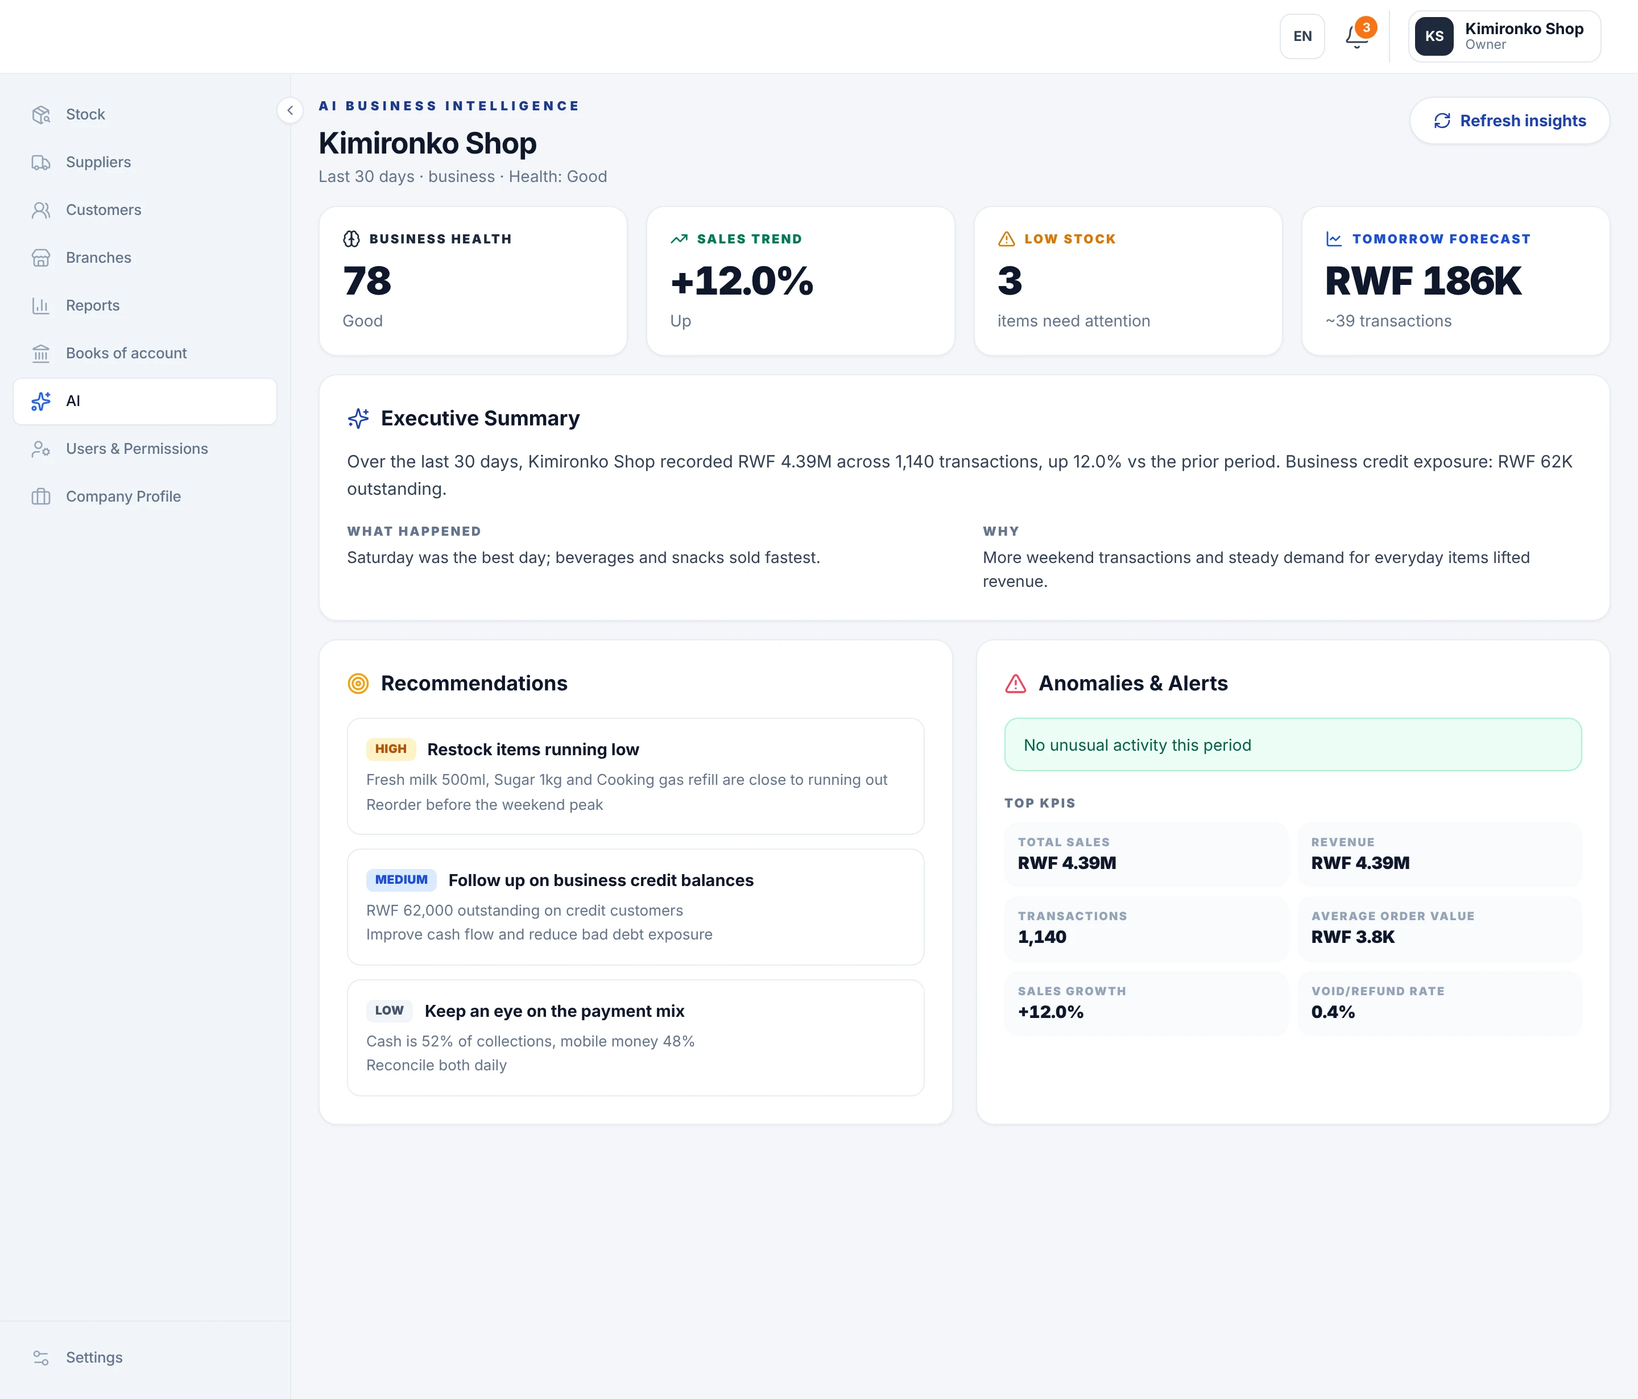
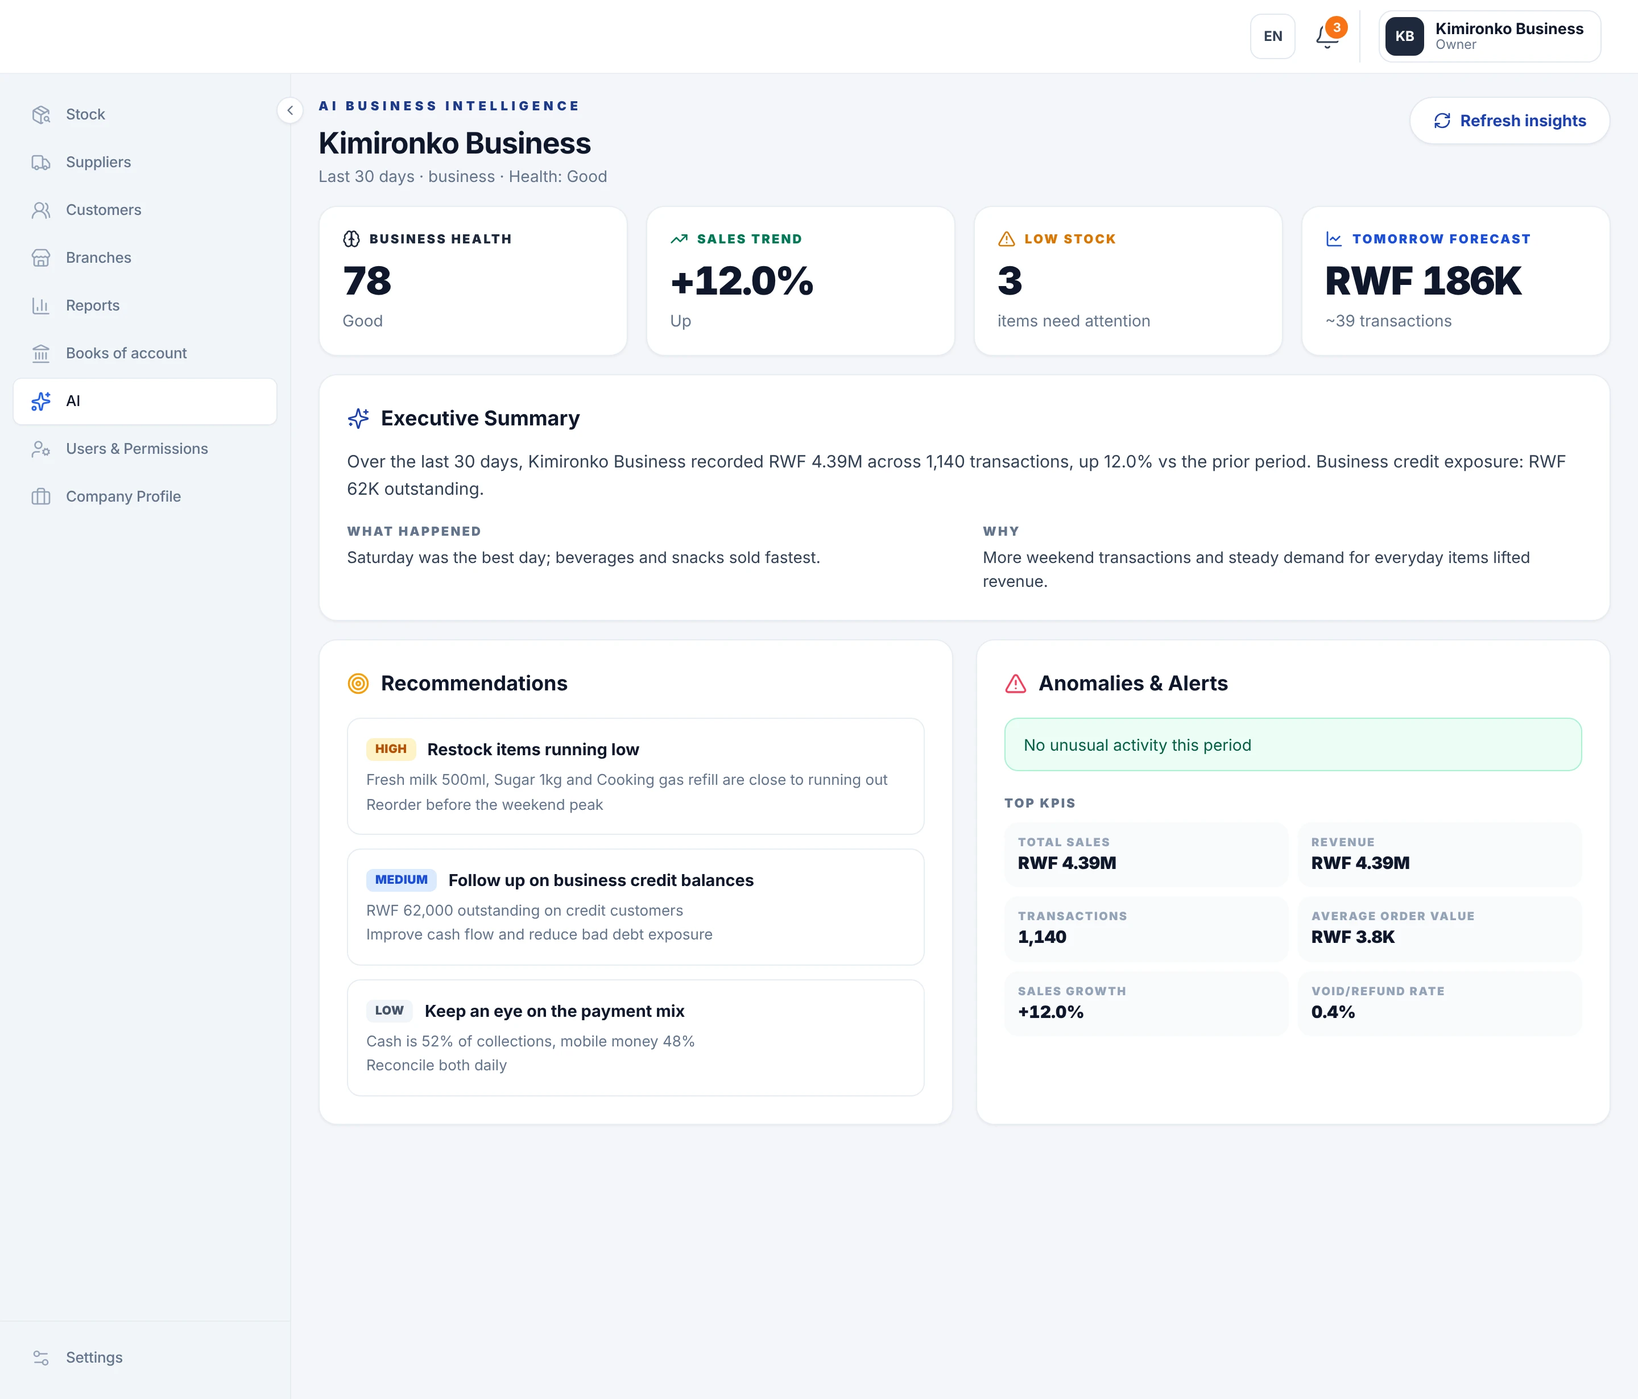
Say "business" instead of "shop" in the page, dialog and demo screens
Navigation ("Your business"), section headings and copy, pricing, the
closing call to action, the demo dialog (title, lead, "Business name and
location" field and the composed email) now say "business". The demo
business in the app screens is renamed "Kimironko Business". The #shop
anchor and internal class names stay, so existing links keep working.

diff --git a/index.html b/index.html
@@ -144,7 +144,7 @@
     <nav class="nav__links" aria-label="Primary">
       <a href="#features" data-nav-link="features">Features</a>
       <a href="#how-it-works" data-nav-link="how-it-works">How it works</a>
-      <a href="#shop" data-nav-link="shop">Your shop</a>
+      <a href="#shop" data-nav-link="shop">Your business</a>
       <a href="#pricing" data-nav-link="pricing">Pricing</a>
       <span class="nav__indicator" aria-hidden="true"></span>
     </nav>
@@ -163,7 +163,7 @@
   <nav class="menu__links" aria-label="Mobile">
     <a href="#features"><span>01</span>Features</a>
     <a href="#how-it-works"><span>02</span>How it works</a>
-    <a href="#shop"><span>03</span>Your shop</a>
+    <a href="#shop"><span>03</span>Your business</a>
     <a href="#pricing"><span>04</span>Pricing</a>
   </nav>
   <div class="menu__actions">
@@ -294,7 +294,7 @@
         <div class="intro">
           <p class="eyebrow" data-rv>How it works</p>
           <h2 class="h2 h2--xl" data-split>Your entire business. <em>One connected system.</em></h2>
-          <p class="lead" data-rv>Products, stock, sales, customer credit and reports, together in one place. Here's how a shop runs on KONTABURE, from the first product you add to the report you read at closing.</p>
+          <p class="lead" data-rv>Products, stock, sales, customer credit and reports, together in one place. Here's how a business runs on KONTABURE, from the first product you add to the report you read at closing.</p>
         </div>
       </div>
 
@@ -302,7 +302,7 @@
       <article class="chapter" id="step-setup" data-step="0" data-shot="products">
         <div class="chapter__text">
           <p class="chapter__num" data-rv><span>01</span>First</p>
-          <h3 class="chapter__title" data-split>Set up your shop</h3>
+          <h3 class="chapter__title" data-split>Set up your business</h3>
           <p class="chapter__lead" data-rv>Add your products, organise your categories and record your starting stock.</p>
           <ul class="ticks" data-rv>
             <li>Start from ready-made product templates</li>
@@ -335,7 +335,7 @@
         <div class="chapter__text">
           <p class="chapter__num" data-rv><span>03</span>Third</p>
           <h3 class="chapter__title" data-split>Manage customer credit</h3>
-          <p class="chapter__lead" data-rv>Sell on credit to your regulars, see who owes the shop, and record repayments as they come in.</p>
+          <p class="chapter__lead" data-rv>Sell on credit to your regulars, see who owes the business, and record repayments as they come in.</p>
           <ul class="ticks" data-rv>
             <li>Know exactly who owes you, and how much</li>
             <li>Record repayments and see balances update</li>
@@ -343,7 +343,7 @@
           </ul>
         </div>
         <figure class="frame chapter__frame" data-rv="clip">
-          <div class="shot" data-crop="cr-table" data-crop-sm="cr-sm"><img src="assets/screens/credit.webp" alt="Customers who owe the shop, with balances and how much of their group's credit limit is used (sample data)." width="1440" height="900" loading="lazy" decoding="async"></div>
+          <div class="shot" data-crop="cr-table" data-crop-sm="cr-sm"><img src="assets/screens/credit.webp" alt="Customers who owe the business, with balances and how much of their group's credit limit is used (sample data)." width="1440" height="900" loading="lazy" decoding="async"></div>
         </figure>
       </article>
 
@@ -435,7 +435,7 @@
         </div>
       </div>
     </div>
-    <p class="fineprint" data-rv>Interactive illustration using the demo shop's sample figures.</p>
+    <p class="fineprint" data-rv>Interactive illustration using the demo business's sample figures.</p>
   </div>
 </section>
 
@@ -444,7 +444,7 @@
   <div class="day__stage">
     <div class="day__track">
       <div class="day__panel day__intro">
-        <p class="eyebrow" data-rv>A day in your shop</p>
+        <p class="eyebrow" data-rv>A day in your business</p>
         <h2 class="h2 h2--xl" id="day-title" data-split>From opening to closing, <em>one place to look.</em></h2>
         <p class="lead" data-rv>An example day at a business running on KONTABURE.</p>
         <p class="day__hint" aria-hidden="true"><span></span>Keep scrolling</p>
@@ -518,8 +518,8 @@
   <div class="container">
     <div class="features__head">
       <p class="eyebrow" data-rv>Built for businesses</p>
-      <h2 class="h2 h2--xl" id="features-title" data-split>Everything your shop needs. <em>Nothing it doesn't.</em></h2>
-      <p class="lead" data-rv>The tools a neighborhood shop uses every day, without the ones it doesn't.</p>
+      <h2 class="h2 h2--xl" id="features-title" data-split>Everything your business needs. <em>Nothing it doesn't.</em></h2>
+      <p class="lead" data-rv>The tools a neighborhood business uses every day, without the ones it doesn't.</p>
     </div>
 
     <ol class="ledger">
@@ -585,7 +585,7 @@
   <div class="container">
     <div class="shop__head">
       <p class="eyebrow" data-rv>Designed for local businesses</p>
-      <h2 class="h2 h2--xl" id="shop-title" data-split>Made for the way <em>your shop</em> already works.</h2>
+      <h2 class="h2 h2--xl" id="shop-title" data-split>Made for the way <em>your business</em> already works.</h2>
     </div>
 
     <ul class="manifesto">
@@ -607,7 +607,7 @@
       <li data-rv>
         <span class="manifesto__icon" aria-hidden="true"><svg><use href="#i-spark"/></svg></span>
         <p class="manifesto__big">Up and selling the same day.</p>
-        <p class="manifesto__small">No training course needed. Four steps and your shop is running on KONTABURE.</p>
+        <p class="manifesto__small">No training course needed. Four steps and your business is running on KONTABURE.</p>
       </li>
     </ul>
 
@@ -628,7 +628,7 @@
   <div class="container pricing__grid">
     <div class="pricing__intro">
       <p class="eyebrow" data-rv>Pricing</p>
-      <h2 class="h2 h2--xl" id="pricing-title" data-split>Fair pricing <em>for your shop.</em></h2>
+      <h2 class="h2 h2--xl" id="pricing-title" data-split>Fair pricing <em>for your business.</em></h2>
       <p class="lead" data-rv>One simple price for your business, with savings when you pay for a quarter or a year.</p>
       <p class="trial" data-rv><svg aria-hidden="true"><use href="#i-check"/></svg><span>Every plan starts with a <span data-trial-days>30</span>-day free trial</span></p>
 
@@ -665,7 +665,7 @@
   <div class="container finale__inner">
     <p class="eyebrow eyebrow--accent" data-rv>Get started</p>
     <h2 class="finale__title" id="finale-title" data-split>Put your business on KONTABURE <em>today.</em></h2>
-    <p class="lead" data-rv>Set up your shop in minutes, or book a demo and we'll walk you through it.</p>
+    <p class="lead" data-rv>Set up your business in minutes, or book a demo and we'll walk you through it.</p>
     <div class="finale__cta" data-rv>
       <a class="btn btn--primary btn--lg" href="https://kontabure.africa/login"><span>Get started</span><svg class="btn__icon" aria-hidden="true"><use href="#i-arrow"/></svg></a>
       <button class="btn btn--ghost btn--lg" type="button" data-demo="demo"><svg class="btn__icon" aria-hidden="true"><use href="#i-cal"/></svg><span>Request a demo</span></button>
@@ -680,7 +680,7 @@
       </div>
       <nav class="footer__col" aria-label="Product">
         <p>Product</p>
-        <a href="#features">Features</a><a href="#how-it-works">How it works</a><a href="#shop">Your shop</a><a href="#pricing">Pricing</a>
+        <a href="#features">Features</a><a href="#how-it-works">How it works</a><a href="#shop">Your business</a><a href="#pricing">Pricing</a>
       </nav>
       <nav class="footer__col" aria-label="Account">
         <p>Account</p>
@@ -707,12 +707,12 @@
   <form class="dialog__card" method="dialog" novalidate>
     <button class="dialog__close" type="submit" value="cancel" formnovalidate aria-label="Close"><svg aria-hidden="true"><use href="#i-x"/></svg></button>
     <p class="eyebrow" data-dialog-eyebrow>Book a demo</p>
-    <h2 class="dialog__title" id="dialog-title" data-dialog-title>See KONTABURE in your shop</h2>
-    <p class="dialog__lead" data-dialog-lead>Tell us a little about your shop and we'll walk you through it.</p>
+    <h2 class="dialog__title" id="dialog-title" data-dialog-title>See KONTABURE in your business</h2>
+    <p class="dialog__lead" data-dialog-lead>Tell us a little about your business and we'll walk you through it.</p>
     <div class="dialog__fields">
       <label class="field"><span>Your name</span><input name="name" autocomplete="name" required></label>
       <label class="field"><span>Phone number</span><input name="phone" type="tel" autocomplete="tel" inputmode="tel" required></label>
-      <label class="field field--wide"><span>Shop name and location</span><input name="shop" autocomplete="organization" placeholder="e.g. Kimironko shop"></label>
+      <label class="field field--wide"><span>Business name and location</span><input name="business" autocomplete="organization" placeholder="e.g. Kimironko Business"></label>
       <fieldset class="field field--wide">
         <legend>Preferred language</legend>
         <div class="seg seg--light">

diff --git a/tools/screens/app/screens.html b/tools/screens/app/screens.html
@@ -12,7 +12,7 @@
     stock     Stock › Stock in              (approximation: no reference yet)
     products  Stock › Add products          (approximation: no reference yet)
     credit    Customers                     (approximation: no reference yet)
-  All figures are SAMPLE DATA for the demo shop. No customer data is used.
+  All figures are SAMPLE DATA for the demo business. No customer data is used.
   Build: node tools/screens/app/build.cjs
 -->
 <html lang="en">
@@ -64,7 +64,7 @@ const ICON = {
 };
 const svg = (paths, cls = 'h-4 w-4', sw = 1.75) => `<svg xmlns="http://www.w3.org/2000/svg" viewBox="0 0 24 24" fill="none" stroke="currentColor" stroke-width="${sw}" stroke-linecap="round" stroke-linejoin="round" class="${cls}" aria-hidden="true">${paths}</svg>`;
 const fmt = (n) => n.toLocaleString('en-US');
-const SHOP = 'Kimironko Shop';
+const SHOP = 'Kimironko Business';
 
 /* ------------------------------------------------------------ app shell (real classes) */
 const NAV = ['Stock', 'Suppliers', 'Customers', 'Branches', 'Reports', 'Books of account', 'AI', 'Users & Permissions', 'Company Profile'];
@@ -82,7 +82,7 @@ function shell(key, active, main, h = 900) {
         <div class="flex shrink-0 items-center gap-2">
           <button type="button" class="relative flex h-10 w-10 items-center justify-center rounded-app-md border border-slate-200 bg-white text-slate-700"><span class="text-xs font-bold leading-none">EN</span></button>
           <button type="button" class="relative rounded-app-md p-2 text-slate-700">${svg(ICON.bell, 'h-6 w-6', 1.5)}<span class="absolute right-0.5 top-0.5 flex h-5 min-w-[20px] items-center justify-center rounded-full bg-[var(--accent-urgent)] px-1 text-[11px] font-bold leading-none text-white shadow-sm ring-2 ring-white">3</span></button>
-          <div class="flex items-center gap-2.5 border-l pl-4 border-[var(--border)]"><button type="button" class="module-header-profile"><span class="module-header-avatar">KS</span><span class="module-header-profile-copy"><span class="module-header-profile-name">${SHOP}</span><span class="module-header-profile-role">Owner</span></span></button></div>
+          <div class="flex items-center gap-2.5 border-l pl-4 border-[var(--border)]"><button type="button" class="module-header-profile"><span class="module-header-avatar">KB</span><span class="module-header-profile-copy"><span class="module-header-profile-name">${SHOP}</span><span class="module-header-profile-role">Owner</span></span></button></div>
         </div>
       </div>
     </header>
@@ -292,7 +292,7 @@ const credit = shell('credit', 'Customers', `
   </div>
   ${tabs([['wallet', 'Owing'], ['users', 'All customers'], ['layers', 'Groups'], ['repay', 'Repayments']], 0)}
   <div class="grid grid-cols-[1.6fr_1fr] gap-5">
-    ${card('Who owes the shop', 'Sorted by last activity', `<table class="w-full"><thead><tr>${th('Customer')}${th('Group')}${th('Balance (RWF)', 1)}${th('Limit used')}${th('Last activity')}</tr></thead><tbody>${owing.map(([n, g, b, l, a], i) => `<tr class="border-t border-slate-100 ${i === 0 ? 'bg-emerald-50/60' : ''}">${td(n, 0, 1)}<td class="px-3 py-2.5">${badge(g, 'slate')}</td>${td(fmt(b), 1, 1)}<td class="px-3 py-2.5"><div class="flex items-center gap-2"><div class="h-1.5 w-24 rounded-full bg-slate-100"><div class="h-1.5 rounded-full ${b / l > .6 ? 'bg-amber-500' : 'bg-primary-600'}" style="width:${b / l * 100}%"></div></div><span class="text-[10px] text-slate-400">${fmt(l / 1000)}k</span></div></td>${td(a)}</tr>`).join('')}</tbody></table>`, 'cr-table')}
+    ${card('Who owes the business', 'Sorted by last activity', `<table class="w-full"><thead><tr>${th('Customer')}${th('Group')}${th('Balance (RWF)', 1)}${th('Limit used')}${th('Last activity')}</tr></thead><tbody>${owing.map(([n, g, b, l, a], i) => `<tr class="border-t border-slate-100 ${i === 0 ? 'bg-emerald-50/60' : ''}">${td(n, 0, 1)}<td class="px-3 py-2.5">${badge(g, 'slate')}</td>${td(fmt(b), 1, 1)}<td class="px-3 py-2.5"><div class="flex items-center gap-2"><div class="h-1.5 w-24 rounded-full bg-slate-100"><div class="h-1.5 rounded-full ${b / l > .6 ? 'bg-amber-500' : 'bg-primary-600'}" style="width:${b / l * 100}%"></div></div><span class="text-[10px] text-slate-400">${fmt(l / 1000)}k</span></div></td>${td(a)}</tr>`).join('')}</tbody></table>`, 'cr-table')}
     <div class="space-y-5">
       ${card('Record repayment', '', `<div class="grid grid-cols-2 gap-3"><div class="col-span-2">${label9('Customer')}<div class="mt-1 rounded-lg border border-slate-200 bg-white px-3 py-2 text-xs font-semibold text-slate-800">Uwase M. · Regulars</div></div><div>${label9('Amount (RWF)')}<div class="mt-1 rounded-lg border border-slate-200 bg-white px-3 py-2 text-xs font-semibold text-slate-800">5,000</div></div><div>${label9('Paid with')}<div class="mt-1 rounded-lg border border-slate-200 bg-white px-3 py-2 text-xs font-semibold text-slate-800">Cash</div></div></div><div class="mt-3">${total('Balance 13,500 → 8,500', 'RWF 8,500', 'emerald')}</div>`, 'cr-repay', '', badge('Saved', 'green'))}
       ${card('Customer groups', 'Credit limits', `<div class="space-y-1">${[['Regulars', 30000, 3], ['Neighbours', 20000, 2], ['Staff', 15000, 1]].map(([g, l, c]) => `<div class="flex items-center justify-between rounded-xl px-3 py-2"><div><p class="text-xs font-bold text-slate-900">${g}</p><p class="text-[10px] text-slate-400">${c} owing</p></div><span class="text-xs font-bold tabular-nums text-slate-900">Limit RWF ${fmt(l)}</span></div>`).join('')}</div>`, 'cr-groups')}

diff --git a/assets/js/kontabure.js b/assets/js/kontabure.js
@@ -294,7 +294,7 @@
   /* ---------------------------------------------------------------- demo / sales dialog */
   const dialog = $('#demo-dialog');
   const DIALOG_COPY = {
-    demo: { eyebrow: 'Book a demo', title: 'See KONTABURE in your shop', lead: "Tell us a little about your shop and we'll walk you through it.", subject: 'KONTABURE demo request' },
+    demo: { eyebrow: 'Book a demo', title: 'See KONTABURE in your business', lead: "Tell us a little about your business and we'll walk you through it.", subject: 'KONTABURE demo request' },
     sales: { eyebrow: 'Talk to sales', title: 'Pricing for your business', lead: "Tell us about your branches and volume, and we'll get back to you with pricing tailored to your business.", subject: 'KONTABURE Enterprise pricing' }
   };
   let dialogKind = 'demo';
@@ -339,7 +339,7 @@
       const body = [
         `Name: ${name}`,
         `Phone: ${phone}`,
-        `Shop: ${(data.get('shop') || '').toString().trim() || '—'}`,
+        `Business: ${(data.get('business') || '').toString().trim() || '—'}`,
         `Preferred language: ${data.get('lang') || 'English'}`,
         '',
         (data.get('message') || '').toString().trim()

diff --git a/README.md b/README.md
@@ -105,7 +105,7 @@ itself. There's no video: it's live SVG and CSS, about 4 seconds long.
 | 4 | **One connected system** *(pinned)* | The frame slides right and turns in 3D as "Your entire business. *One connected system.*" rises on the left. |
 | 5 | **How it works: five chapters** *(pinned frame, scrolling text)* | Set up → Inventory → Credit → Books (financial reports) → Insights (AI business intelligence). The order builds from daily operations to the profit and the explanation behind it. Each chapter swaps the real screen with a clip-path wipe (direction-aware on reverse scroll) and **moves a camera** to the relevant part of the UI. A chapter-specific callout chip and a clickable step rail update with it. |
 | 6 | **One sale, everywhere** | Interactive: choose Cash / Mobile money / On credit and press *Record sale*. Pulses travel to Stock (6 → 5, running low), Sales today (+RWF 1,500) and Payments or the customer's credit balance. Stock eventually runs out; *Reset* restores it. |
-| 7 | **A day in your shop** *(horizontal)* | Vertical scroll drives a horizontal day from 07:00 to 21:00: running low before opening, supplier delivery, lunchtime rush (payment mix), credit, repayment, and AI business intelligence at closing. A live clock counts the time, the background moves dawn → noon → warm afternoon → dusk → night, and frames move in parallax. The section opens through a window that expands to full screen. |
+| 7 | **A day in your business** *(horizontal)* | Vertical scroll drives a horizontal day from 07:00 to 21:00: running low before opening, supplier delivery, lunchtime rush (payment mix), credit, repayment, and AI business intelligence at closing. A live clock counts the time, the background moves dawn → noon → warm afternoon → dusk → night, and frames move in parallax. The section opens through a window that expands to full screen. |
 | 8 | **Features ledger** | The capabilities from the current page as ledger rows, plus Books of account and AI business intelligence from the app. On desktop, hovering a row shows a cursor-following crop of the matching screen. |
 | 9 | **Designed for local businesses** | English & Kinyarwanda, RWF, credit for regulars, same-day setup, then the 11 default categories light up word by word as you scroll. |
 | 10 | **Pricing** *(sheet transition)* | Slides up over the previous section like a new page while that section sinks and dims. The billing toggle (Monthly / Quarterly / Annual −20%) is keyboard-accessible and renders from the pricing data. |
@@ -125,7 +125,7 @@ iPhone 13 (it was 24). One idea per screen; detail moves behind a swipe or a tap
 - How it works: the five chapters are **cards you swipe** (CSS scroll-snap, equal 5:4 phone crops, progress
   dots, keyboard-reachable strip). Each card keeps its screen, title and one sentence.
 - One sale: the results are compact rows.
-- A day in your shop: a **short timeline** (time, title, one line) with no screenshots, since the cards
+- A day in your business: a **short timeline** (time, title, one line) with no screenshots, since the cards
   already show them.
 - Features: **titles only; tap one to open it** (real buttons with `aria-expanded`, added by script on
   phones only, so desktop and no-JS keep the full ledger).
@@ -148,7 +148,7 @@ live app (Financial Reports page), compiled with Tailwind v3. The source is `too
 | `products.webp` (1440×900) | Stock › Add products | approximation, no reference yet | Chapter 01, "Products in minutes" |
 | `credit.webp` (1440×900) | Customers | approximation, no reference yet | Chapter 03, 16:00 and 18:30 moments, "Customers on credit" |
 
-**Sample data only.** Every figure belongs to a demo shop ("Kimironko Shop"). No data from a live account
+**Sample data only.** Every figure belongs to a demo business ("Kimironko Business"). No data from a live account
 was used or committed (the repository is public). The main frame carries a "Sample data" tag and every
 alt text says "(sample data)". Three details to know:
 
